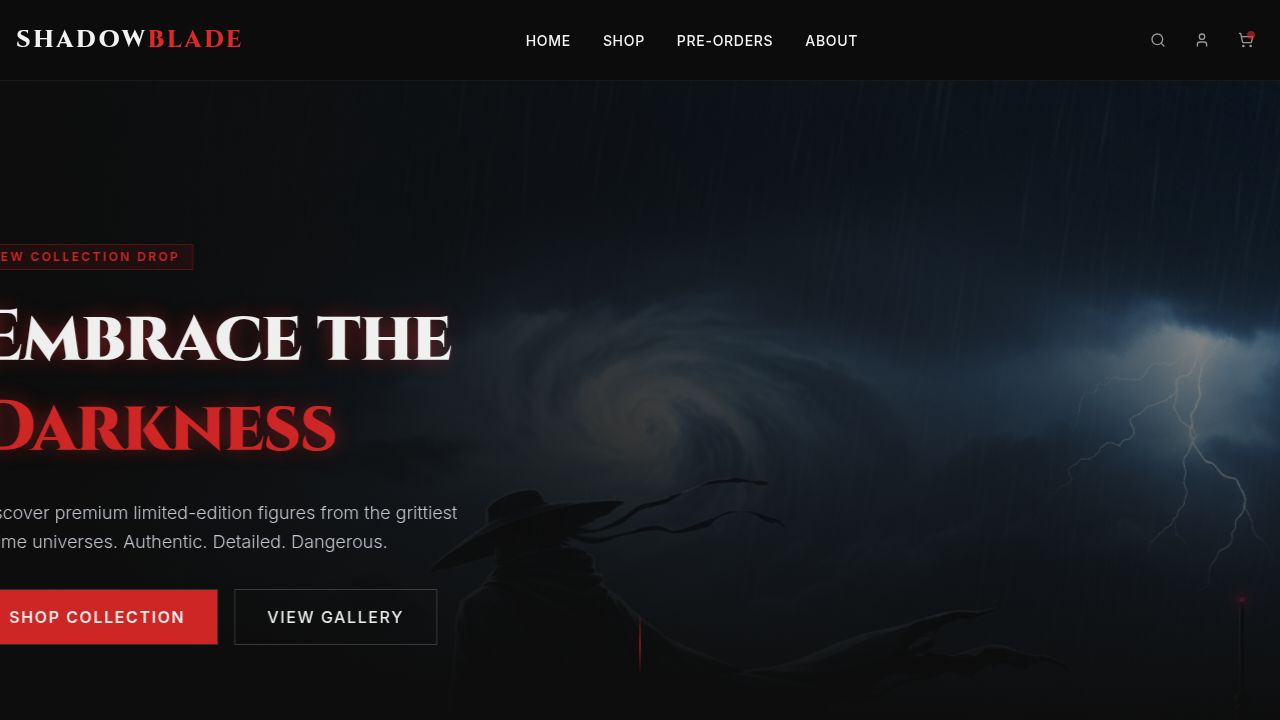
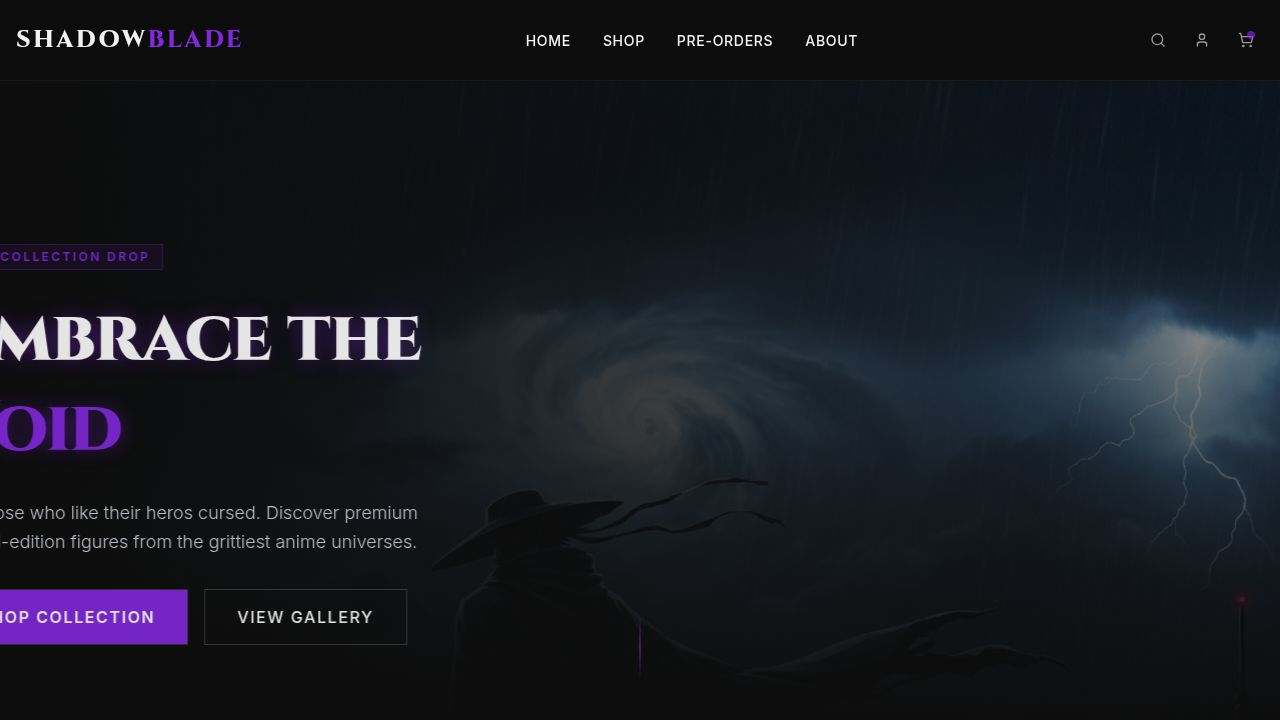
Update main description to reflect a cursed hero theme
Update the main description in `client/src/pages/home.tsx` to "For those who like their heros cursed."

Replit-Commit-Author: Agent
Replit-Commit-Session-Id: 94e2e136-e030-4b86-bc2b-1adfe7c0bc34
Replit-Commit-Checkpoint-Type: full_checkpoint
Replit-Commit-Event-Id: 00285778-fff2-4400-bfea-67398fbff8fc
Replit-Commit-Screenshot-Url: https://storage.googleapis.com/screenshot-production-us-central1/8648d69b-8b6a-4dcc-8ad8-7741b681684e/94e2e136-e030-4b86-bc2b-1adfe7c0bc34/IUzfVze
Replit-Helium-Checkpoint-Created: true

diff --git a/client/src/pages/home.tsx b/client/src/pages/home.tsx
@@ -32,8 +32,7 @@ export default function Home() {
               <span className="text-primary">Void</span>
             </h1>
             <p className="text-lg text-gray-300 mb-8 max-w-lg leading-relaxed font-light">
-              Discover premium limited-edition figures from the grittiest anime universes. 
-              Authentic. Detailed. Mysterious.
+              For those who like their heros cursed. Discover premium limited-edition figures from the grittiest anime universes.
             </p>
             <div className="flex flex-col sm:flex-row gap-4">
               <Button size="lg" className="bg-primary hover:bg-primary/90 text-white rounded-none px-8 h-14 text-base tracking-widest uppercase font-semibold">
